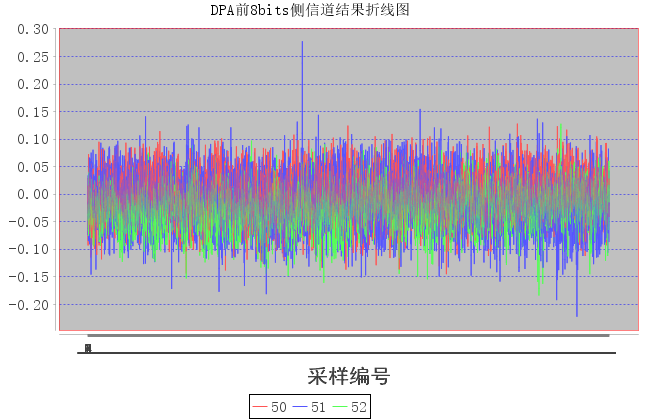
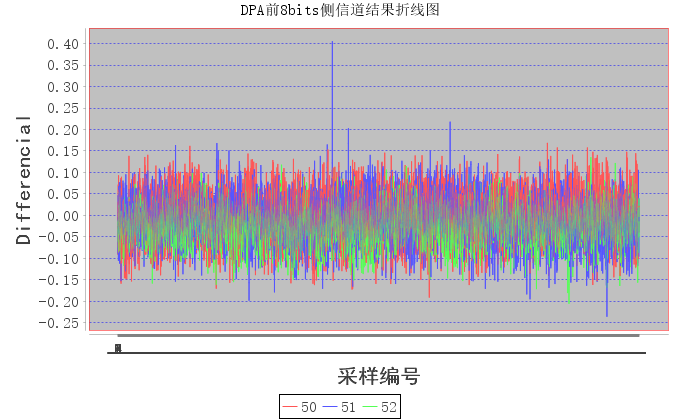
执行结果

diff --git a/src/sca/Differential.java b/src/sca/Differential.java
@@ -17,24 +17,24 @@ public class Differential {
         //hanmmingweight 250;powertraces 250*10000
 
         // Now calculate the sum and count of all selection bits with a zero or a one
-        float[] dpaHW0Sum = new float[powertraces.get(0).size()];
-        float[] dpaHW8Sum = new float[powertraces.get(0).size()];
+        float[] dpaHW0to3Sum = new float[powertraces.get(0).size()];
+        float[] dpaHW5to8Sum = new float[powertraces.get(0).size()];
 
         for (int sample10000 = 0; sample10000 < powertraces.get(0).size(); sample10000++) {
-            int dpaHW0Count = 0;
-            int dpaHW8Count = 0;
+            int dpaHW0to3Count = 0;
+            int dpaHW5to8Count = 0;
             for (int trace250 = 2; trace250 < hanmmingweight.size(); trace250++) {
                 if(hanmmingweight.get(trace250) < 4){
-                    dpaHW0Count += 1;
-                    dpaHW0Sum[sample10000] += powertraces.get(trace250).get(sample10000);
-                }else if(hanmmingweight.get(trace250) >= 4){
-                    dpaHW8Count += 1;
-                    dpaHW8Sum[sample10000] += powertraces.get(trace250).get(sample10000);
+                    dpaHW0to3Count += 1;
+                    dpaHW0to3Sum[sample10000] += powertraces.get(trace250).get(sample10000);
+                }else if(hanmmingweight.get(trace250) > 4){
+                    dpaHW5to8Count += 1;
+                    dpaHW5to8Sum[sample10000] += powertraces.get(trace250).get(sample10000);
                 }
             }
 
-            // Calculate a DPA value for this key guess
-            float dpaValue = dpaHW8Sum[sample10000] / dpaHW8Count - dpaHW0Sum[sample10000] / dpaHW0Count;
+            // 计算该 key guess 的 DPA
+            float dpaValue = dpaHW5to8Sum[sample10000] / dpaHW5to8Count - dpaHW0to3Sum[sample10000] / dpaHW0to3Count;
             dpaValues[sample10000] = dpaValue;
         }
 

diff --git a/src/view/LineChart.java b/src/view/LineChart.java
@@ -23,7 +23,7 @@ public class LineChart {
         JFreeChart mChart = ChartFactory.createLineChart(
                 isDPA? "DPA前8bits侧信道结果折线图":"CPA前8bits侧信道结果折线图",//图名字
                 "采样编号",//横坐标
-                isDPA?"Power":"Correlation",//纵坐标
+                isDPA?"Differencial":"Correlation",//纵坐标
                 mDataset,//数据集
                 PlotOrientation.VERTICAL,
                 true, // 显示图例

diff --git a/src/sca/Correlation.java b/src/sca/Correlation.java
@@ -24,7 +24,7 @@ public class Correlation {
                 tracesample.add(powertraces.get(trace250).get(sample10000));
             }
 
-            // Calculate a DPA value for this key guess
+            // Calculate a CPA value for this key guess
             float cpaValue = (float) getPearsonCorrelationScore(hanmmingweight,tracesample);//强制转换
             cpaValues[sample10000] = cpaValue;
         }
